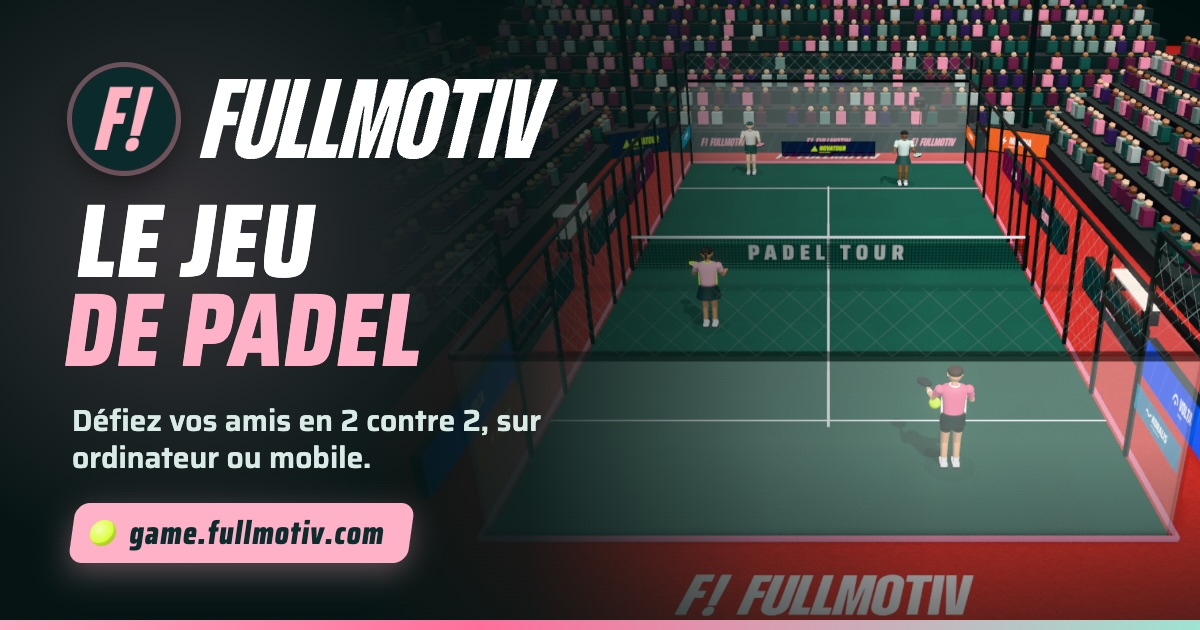
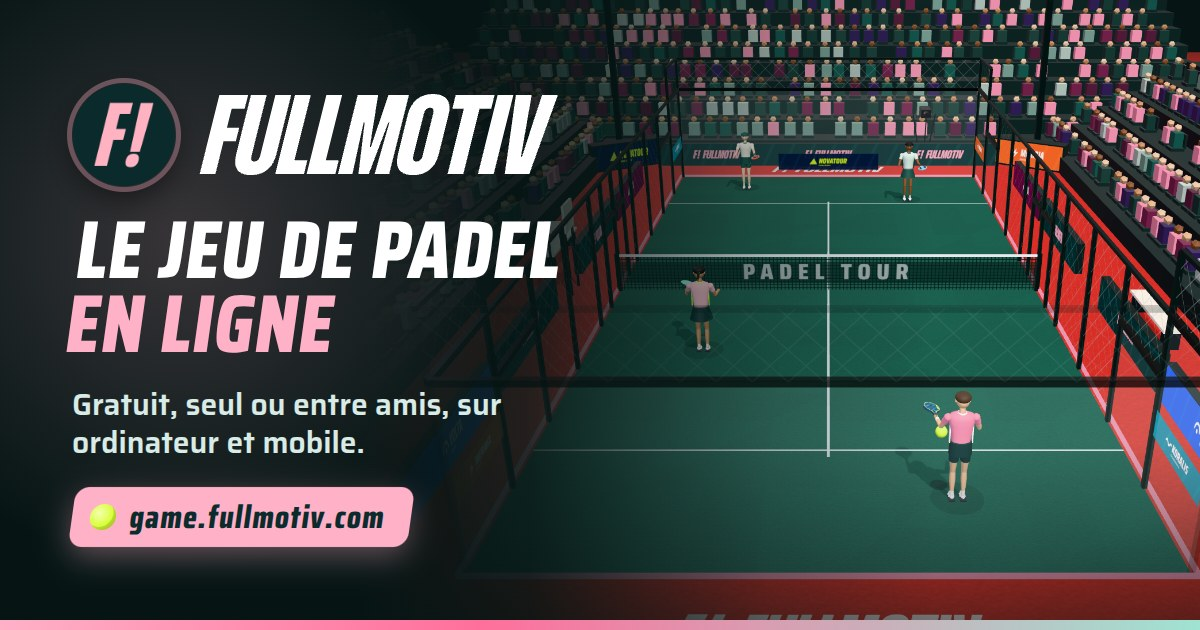
Référencement : title, meta description et image de partage centrés sur le jeu en ligne
- title : « Jeu de padel en ligne gratuit, seul ou entre amis | Fullmotiv » (61 car.)
- meta description réécrite (177 car.), og/twitter alignés
- og.jpg régénéré avec la scène actuelle (joueurs affinés, raquettes colorées)
  et l'accroche « Le jeu de padel en ligne » ; ?v=2 pour forcer les réseaux
  sociaux à recharger l'image

Claude-Session: https://claude.ai/code/session_01BDU4mWwRU8XHduzsP3owSZ

diff --git a/index.html b/index.html
@@ -3,25 +3,25 @@
 <head>
 <meta charset="utf-8">
 <meta name="viewport" content="width=device-width,initial-scale=1,minimum-scale=1,maximum-scale=1,user-scalable=no,viewport-fit=cover">
-<meta name="description" content="Fullmotiv, le jeu de padel en 2 contre 2 ou en 1 contre 1 : règles officielles, vitres, smash et bandeja. Sur ordinateur et smartphone.">
+<meta name="description" content="Jouez au padel en ligne, gratuitement et sans installation : en 2 contre 2 ou en 1 contre 1, contre l'ordinateur ou entre amis. Vitres, smash, bandeja. Sur ordinateur et mobile.">
 <meta name="theme-color" content="#061514">
 <meta property="og:type" content="website">
 <meta property="og:site_name" content="Fullmotiv">
 <meta property="og:locale" content="fr_FR">
 <meta property="og:url" content="https://game.fullmotiv.com/">
-<meta property="og:title" content="Fullmotiv · Le jeu de padel">
-<meta property="og:description" content="Défiez vos amis en 2 contre 2 ou en 1 contre 1, sur ordinateur ou mobile. Gratuit, dans le navigateur.">
-<meta property="og:image" content="https://game.fullmotiv.com/og.jpg">
-<meta property="og:image:secure_url" content="https://game.fullmotiv.com/og.jpg">
+<meta property="og:title" content="Fullmotiv · Le jeu de padel en ligne">
+<meta property="og:description" content="Jouez au padel en ligne, gratuitement : en 2 contre 2 ou en 1 contre 1, seul ou entre amis, sur ordinateur et mobile.">
+<meta property="og:image" content="https://game.fullmotiv.com/og.jpg?v=2">
+<meta property="og:image:secure_url" content="https://game.fullmotiv.com/og.jpg?v=2">
 <meta property="og:image:type" content="image/jpeg">
 <meta property="og:image:width" content="1200">
 <meta property="og:image:height" content="630">
-<meta property="og:image:alt" content="Fullmotiv, le jeu de padel : un match en 2 contre 2 dans une arène, avec le logo Fullmotiv.">
+<meta property="og:image:alt" content="Fullmotiv, le jeu de padel en ligne : un match en 2 contre 2 dans une arène, avec le logo Fullmotiv.">
 <meta name="twitter:card" content="summary_large_image">
-<meta name="twitter:title" content="Fullmotiv · Le jeu de padel">
-<meta name="twitter:description" content="Défiez vos amis en 2 contre 2 ou en 1 contre 1, sur ordinateur ou mobile.">
-<meta name="twitter:image" content="https://game.fullmotiv.com/og.jpg">
-<title>Fullmotiv</title>
+<meta name="twitter:title" content="Fullmotiv · Le jeu de padel en ligne">
+<meta name="twitter:description" content="Jouez au padel en ligne, gratuitement : en 2 contre 2 ou en 1 contre 1, seul ou entre amis, sur ordinateur et mobile.">
+<meta name="twitter:image" content="https://game.fullmotiv.com/og.jpg?v=2">
+<title>Jeu de padel en ligne gratuit, seul ou entre amis | Fullmotiv</title>
 <link rel="icon" type="image/png" href="favicon.png">
 <link rel="preconnect" href="https://fonts.googleapis.com">
 <link rel="preconnect" href="https://fonts.gstatic.com" crossorigin>

diff --git a/og/og-card.html b/og/og-card.html
@@ -16,7 +16,7 @@
   .brand{display:flex;align-items:center;gap:22px}
   .brand img{width:104px;height:104px;border-radius:50%;box-shadow:0 0 0 5px rgba(255,177,200,.35),0 12px 30px rgba(0,0,0,.5)}
   .brand svg{width:360px;height:auto;fill:#fff}
-  h1{margin:0;font:800 104px/.86 "Saira Condensed",sans-serif;text-transform:uppercase;letter-spacing:.01em;transform:skewX(-8deg);transform-origin:left}
+  h1{margin:0;font:800 82px/.9 "Saira Condensed",sans-serif;text-transform:uppercase;letter-spacing:.01em;transform:skewX(-8deg);transform-origin:left}
   h1 em{font-style:normal;color:#ffb1c8;display:block}
   p{margin:0;font:600 30px/1.25 "Saira",sans-serif;color:#d9ebe6;max-width:500px}
   .cta{align-self:flex-start;display:flex;align-items:center;gap:14px;background:#ffb1c8;color:#0b2b2d;border-radius:14px;padding:14px 26px 14px 18px;font:800 32px/1 "Saira Condensed",sans-serif;letter-spacing:.04em;transform:skewX(-8deg);box-shadow:0 10px 30px rgba(255,177,200,.35)}
@@ -27,8 +27,8 @@
   <div class="scene"></div><div class="shade"></div><div class="glow"></div>
   <div class="content">
     <div class="brand"><img src="mark.png" alt=""><svg viewBox="97 0 395 90" aria-label="Fullmotiv"><path d="m463.12 1.24-11.75 67.53h1.11L474.5 1.24h17.31l-31.29 86.58h-26.96L445.8 1.24h17.32ZM442.98 1.24l-21.52 86.58h-17.32l21.53-86.58h17.31ZM418.7 16.2h-12.74l-17.81 71.5h-17.32l17.81-71.5h-12.62l3.72-15.09h42.67l-3.71 15.1ZM327.22 22.51c1.9-7.26 5.2-12.82 9.9-16.7C341.88 1.94 347.82 0 354.91 0c7.26 0 12.37 1.98 15.34 5.94 2.97 3.87 3.55 9.4 1.73 16.57l-10.88 43.9c-1.82 7.27-5.2 12.87-10.14 16.83-4.87 3.88-10.93 5.81-18.19 5.81-7.09 0-12.08-1.93-14.96-5.81-2.8-3.88-3.3-9.48-1.49-16.82l10.89-43.9Zm6.06 45.15c-1 4.28.12 6.43 3.34 6.43 3.46 0 5.73-2.15 6.8-6.43l11.63-46.26c.99-4.2-.13-6.31-3.34-6.31a6.4 6.4 0 0 0-4.33 1.6c-1.16 1.08-1.98 2.65-2.48 4.7l-11.62 46.27ZM294.66 1.24l-9.16 56.9h1.24l19.17-56.9h22.51l-21.64 86.58h-15.96l16.08-56.53h-1.11l-21.4 56.53h-11.38l6.8-56.53h-1.1l-12.25 56.53h-15.83l21.52-86.58h22.5ZM255.16 1.11l-17.93 71.62h14.22l-3.71 15.09H216.2l21.65-86.7h17.31ZM220.74 1.11 202.8 72.73h14.23l-3.71 15.09h-31.54l21.64-86.7h17.32ZM172.3 1.24l-16.58 66.42c-1.07 4.28-.04 6.43 3.1 6.43 1.48 0 2.8-.54 3.95-1.61a9.93 9.93 0 0 0 2.48-4.82l16.57-66.42h17.32l-16.2 65.18c-1.82 7.26-5.16 12.86-10.03 16.82-4.86 3.88-10.88 5.81-18.05 5.81-7.01 0-11.92-1.93-14.72-5.81-2.8-3.88-3.26-9.48-1.36-16.82l16.2-65.18h17.32ZM133.92 16.2l-5.2 20.78h13.49l-3.71 14.97h-13.48l-8.9 35.74H98.8l21.64-86.58h31.54l-3.83 15.1h-14.23Z"/></svg></div>
-    <h1>Le jeu<em>de padel</em></h1>
-    <p>Défiez vos amis en 2 contre 2, sur ordinateur ou mobile.</p>
+    <h1>Le jeu de padel<em>en ligne</em></h1>
+    <p>Gratuit, seul ou entre amis, sur ordinateur et mobile.</p>
     <div class="cta"><span class="ball"></span>game.fullmotiv.com</div>
   </div>
   <div class="edge"></div>
